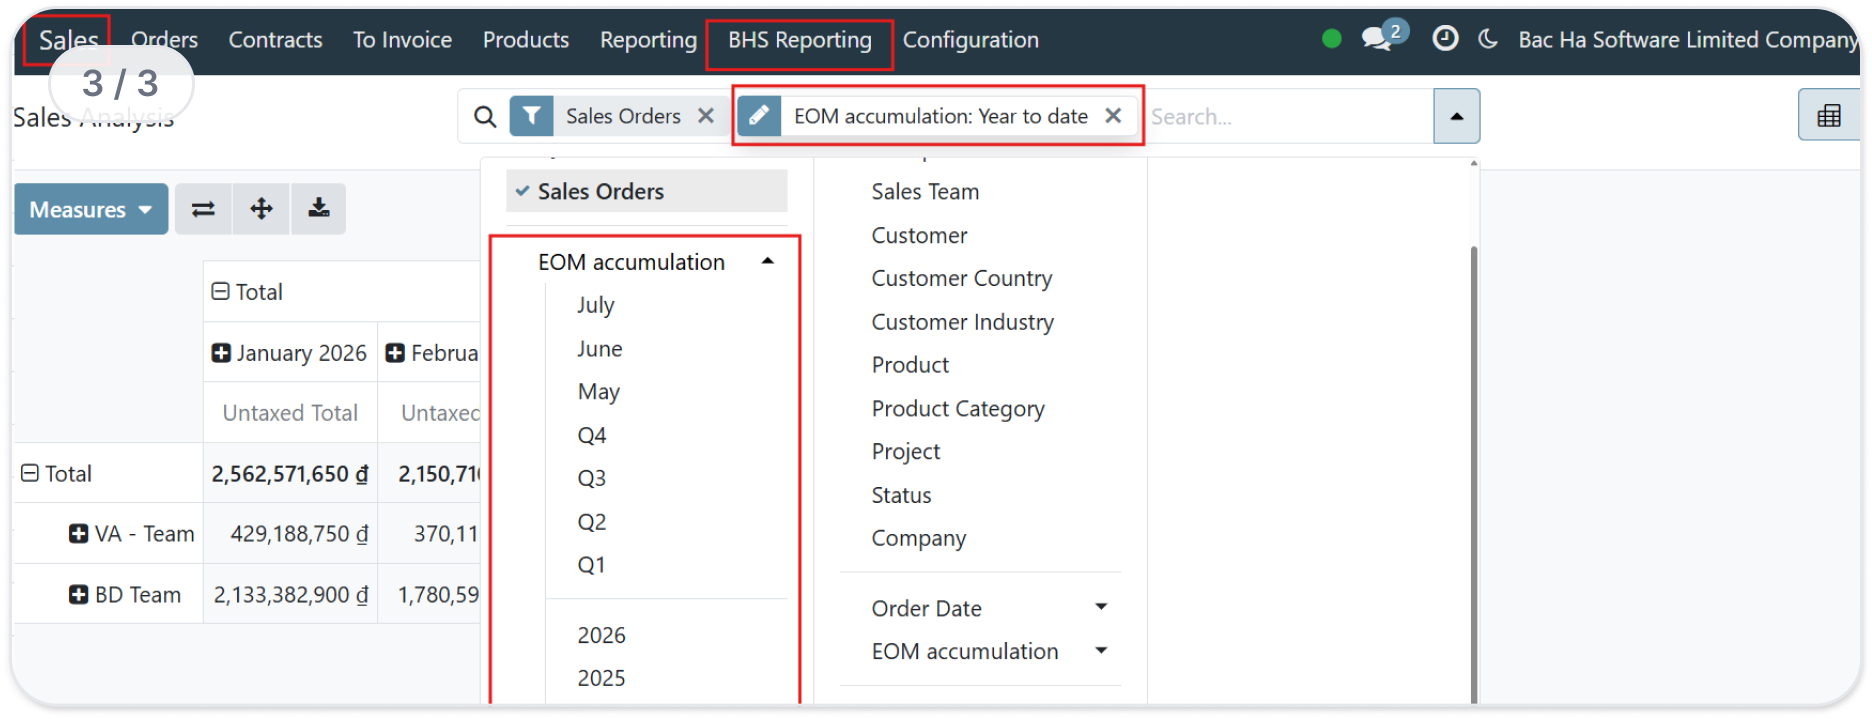
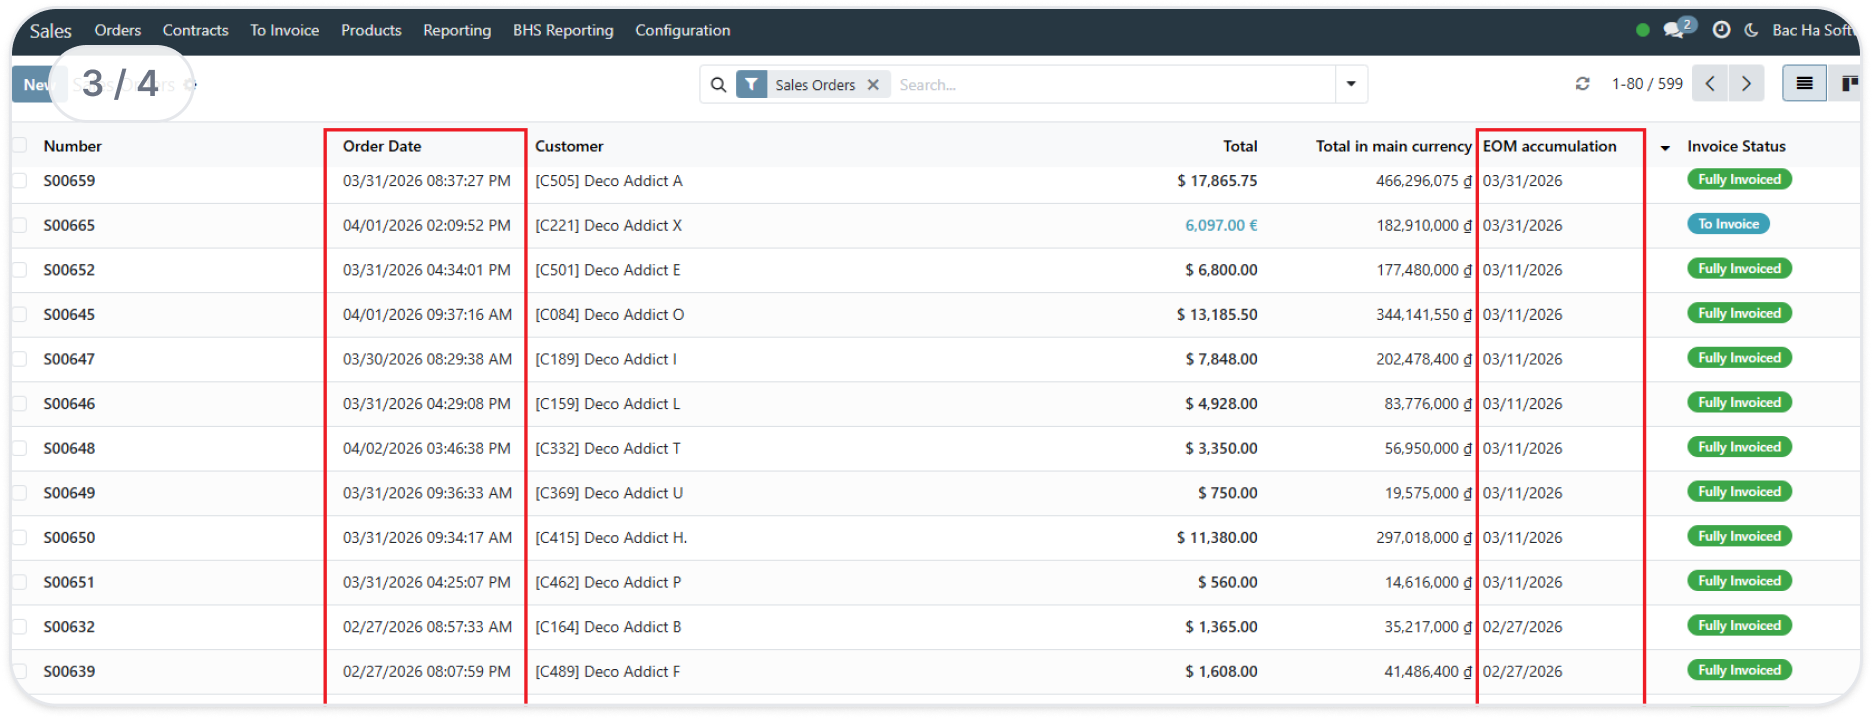
v19: update content index

diff --git a/bhs_sales/static/description/index.html b/bhs_sales/static/description/index.html
@@ -16,12 +16,12 @@
                 </div>
                 <div  style="text-align: justify;font-size: 14px ; color: #4A5565; margin-top: 16px; font-family: Inter, sans-serif; line-height: 22px; font-weight: 400; max-width: 528px;">
                     <p style="margin-bottom: 0px;">
-                        Sales Order EOM Automation by Bac Ha Software is an Odoo extension that optimizes sales order management. It simplifies billing cycle control, supports base currency calculations, and delivers detailed revenue reports for accurate sales tracking.
+                        Sales Order EOM Automation by Bac Ha Software is an Odoo extension that enhances Sales Order management. It simplifies billing month management, improves pricing consistency, supports main currency calculations, and provides dedicated revenue reports for better sales tracking.
                     </p>
                 </div>
                 <div  style="text-align: justify;font-size: 14px ; color: #4A5565; margin-top: 10px; font-family: Inter, sans-serif; line-height: 23px; font-weight: 400; max-width: 528px; margin-left:108px">
                     <p>
-                        Sales Order EOM Automation là giải pháp giúp doanh nghiệp tối ưu quy trình quản lý đơn bán hàng theo nhu cầu nghiệp vụ. Ứng dụng hỗ trợ quản lý kỳ ghi nhận doanh thu, tự động quy đổi đồng tiền cơ sở và cung cấp hệ thống báo cáo quản trị chuyên sâu.
+                        Sales Order EOM Automation là giải pháp tối ưu hóa quy trình quản lý đơn bán hàng theo nhu cầu nghiệp vụ của doanh nghiệp. Ứng dụng hỗ trợ quản lý kỳ ghi nhận doanh thu, tự động quy đổi đồng tiền cơ sở và cung cấp hệ thống báo cáo quản trị chuyên sâu cho doanh nghiệp.
                     </p>
                 </div>
                 <div style="margin-top: 16px; display: flex;">
@@ -87,25 +87,25 @@
             </div>
             <div class="row align-items-center g-6" style="margin-top: 35px">
                 <div class="col-sm-12 col-md-12 col-lg-6 mt-0">
-                    <span style="font-family: Inter; font-weight: 700; font-size: 12px; line-height: 16px; background-color: #FF8000; border-radius:40px; color: #FFFFFF; padding:4px 12px; margin-bottom:20px; display:inline-block;">Automated</span>
+                    <span style="font-family: Inter; font-weight: 700; font-size: 12px; line-height: 16px; background-color: #FF8000; border-radius:40px; color: #FFFFFF; padding:4px 12px; margin-bottom:20px; display:inline-block;">Consistent</span>
                     <h5 style="font-family: Inter; font-weight: 700; font-size: 20px; line-height: 28px; color: #101828; margin-bottom:12px;">
-                        Revenue Period Assignment
+                        Locked Unit Price on Quantity Update
                     </h5>
                     <p style="font-family: Inter; font-weight: 400; font-size: 14px; line-height: 28px; text-align: justify; color: #6A7282;margin-bottom: 19px; ">
-                        Adds a EOM Accumulation field to Sales Orders, automatically assigned upon creation based on specific business rules. Orders created before the 5th of the month default to the 15th of the previous month, while orders created on or after the 5th use the current date.
+                        Preserve custom unit prices without automatic recalculation when when modifying product quantities in sale order lines.
                     </p>
                     <ul style="list-style-type: none; font-family: Inter; font-weight: 400; font-size: 14px; line-height: 20px;color: #4A5565; padding-left:0;">
                         <li class="d-flex align-items-center" style="margin-bottom: 8px;">
                             <img src="./imgs/icon-item.png" style=" width:20px; height:20px; margin-right:10px;"/>
-                            Automatically adds the EOM Accumulation field to Sales Orders.
+                            Prevent automatic price resets when quantities change.
                         </li>
                         <li class="d-flex align-items-center" style="margin-bottom: 8px;">
                             <img src="./imgs/icon-item.png" style=" width:20px; height:20px; margin-right:10px;"/>
-                            Apply cut-off rules for pre-5th and post-5th order creations.
+                            Maintain consistency in pricing across updates.
                         </li>
                         <li class="d-flex align-items-center" style="margin-bottom: 8px;">
                             <img src="./imgs/icon-item.png" style=" width:20px; height:20px; margin-right:10px;"/>
-                            Ensures data accuracy and reduces manual entry errors.
+                            Ensure accurate billing aligned with negotiated terms.
                         </li>
                     </ul>
                 </div>
@@ -118,27 +118,55 @@
                     <img src="./imgs/screen/config_3.png" class="img img-fluid mx-auto" style=" border-radius: 25px; "/>
                 </div>
                 <div class="col-sm-12 col-md-12 col-lg-6 mt-0">
-                    <span style="font-family: Inter; font-weight: 700; font-size: 12px; line-height: 16px; background-color: #70E07D; border-radius:40px; color: #FFFFFF; padding:4px 12px; margin-bottom:12px; display:inline-block;">Transparent</span>
+                    <span style="font-family: Inter; font-weight: 700; font-size: 12px; line-height: 16px; background-color: #70E07D; border-radius:40px; color: #FFFFFF; padding:4px 12px; margin-bottom:12px; display:inline-block;">Automated</span>
                     <h5 style="font-family: Inter; font-weight: 700; font-size: 20px; line-height: 28px; color: #101828; margin-bottom:12px;">
-                        Revenue Reporting by Period
+                        Revenue Period Assignment
                     </h5>
                     <p style="font-family: Inter; font-weight: 400; font-size: 14px; line-height: 28px; text-align: justify; color: #6A7282;     margin-bottom: 19px;">
-                        Access a dedicated <span style="font-weight: 700;">BHS Reporting menu</span> with reports for Sales, Salespersons, Products, Projects, and Customers. Reports are filtered by <span style="font-weight: 700;">EOM Accumulation</span> (Year to Date) by default, enabling businesses to analyze revenue based on the assigned reporting period. Users can also filter reports by month, quarter, or year.
+                        Adds a <span style="font-weight: 700;">EOM Accumulation</span> field to Sales Orders, automatically assigned upon creation based on specific business rules. Orders created before the 5th of the month default to the 15th of the previous month, while orders created on or after the 5th use the current date.
                     </p>
                     <ul style="list-style-type: none; font-family: Inter; font-weight: 400; font-size: 14px; line-height: 20px;color: #4A5565; padding-left:0;">
                         <li class="d-flex align-items-center" style="margin-bottom: 10px;">
                             <img src="./imgs/icon-item.png" style=" width:20px; height:20px; margin-right:10px;"/>
-                            Provides a dedicated BHS Reporting menu for key business metrics.
+                            Automatically adds the EOM Accumulation field to Sales Orders.
                         </li>
                         <li class="d-flex align-items-center" style="margin-bottom: 10px;">
                             <img src="./imgs/icon-item.png" style=" width:20px; height:20px; margin-right:10px;"/>
-                            Defaults to EOM Accumulation filtering for revenue tracking.
+                            Apply cut-off rules for pre-5th and post-5th order creations.
                         </li>
                         <li class="d-flex align-items-center" style="margin-bottom: 10px;">
+                            <img src="./imgs/icon-item.png" style=" width:20px; height:20px; margin-right:10px;"/>
+                            Ensures data accuracy and reduces manual entry errors.
+                        </li>
+                    </ul>
+                </div>
+            </div>
+            <div class="row align-items-center g-6" style="margin-top: 35px">
+                <div class="col-sm-12 col-md-12 col-lg-6 mt-0">
+                    <span style="font-family: Inter; font-weight: 700; font-size: 12px; line-height: 16px; background-color: #0D7A5F; border-radius:40px; color: #FFFFFF; padding:4px 12px; margin-bottom:20px; display:inline-block;">Transparent</span>
+                    <h5 style="font-family: Inter; font-weight: 700; font-size: 20px; line-height: 28px; color: #101828; margin-bottom:12px;">
+                        Revenue Reporting by Period
+                    </h5>
+                    <p style="font-family: Inter; font-weight: 400; font-size: 14px; line-height: 28px; text-align: justify; color: #6A7282;margin-bottom: 19px; ">
+                        Access a dedicated <span style="font-weight: 700;">BHS Reporting</span> menu with reports for Sales, Salespersons, Products, Projects, and Customers. Reports are filtered by <span style="font-weight: 700;">EOM Accumulation</span> (Year to Date) by default, enabling businesses to analyze revenue based on the assigned reporting period. Users can also filter reports by month, quarter, or year.
+                    </p>
+                    <ul style="list-style-type: none; font-family: Inter; font-weight: 400; font-size: 14px; line-height: 20px;color: #4A5565; padding-left:0;">
+                        <li class="d-flex align-items-center" style="margin-bottom: 8px;">
+                            <img src="./imgs/icon-item.png" style=" width:20px; height:20px; margin-right:10px;"/>
+                            Provides a dedicated BHS Reporting menu for key business metrics.
+                        </li>
+                        <li class="d-flex align-items-center" style="margin-bottom: 8px;">
+                            <img src="./imgs/icon-item.png" style=" width:20px; height:20px; margin-right:10px;"/>
+                            Defaults to EOM Accumulation filtering for revenue tracking.
+                        </li>
+                        <li class="d-flex align-items-center" style="margin-bottom: 8px;">
                             <img src="./imgs/icon-item.png" style=" width:20px; height:20px; margin-right:10px;"/>
                             Allows flexible report filtering by month, quarter, or year.
                         </li>
                     </ul>
+                </div>
+                <div class="col-sm-12 col-md-12 col-lg-6 mt-0" style="margin-top: 16px">
+                    <img src="./imgs/screen/config_4.png" class="img img-fluid mx-auto" style=" border-radius: 25px; "/>
                 </div>
             </div>
         </div>
